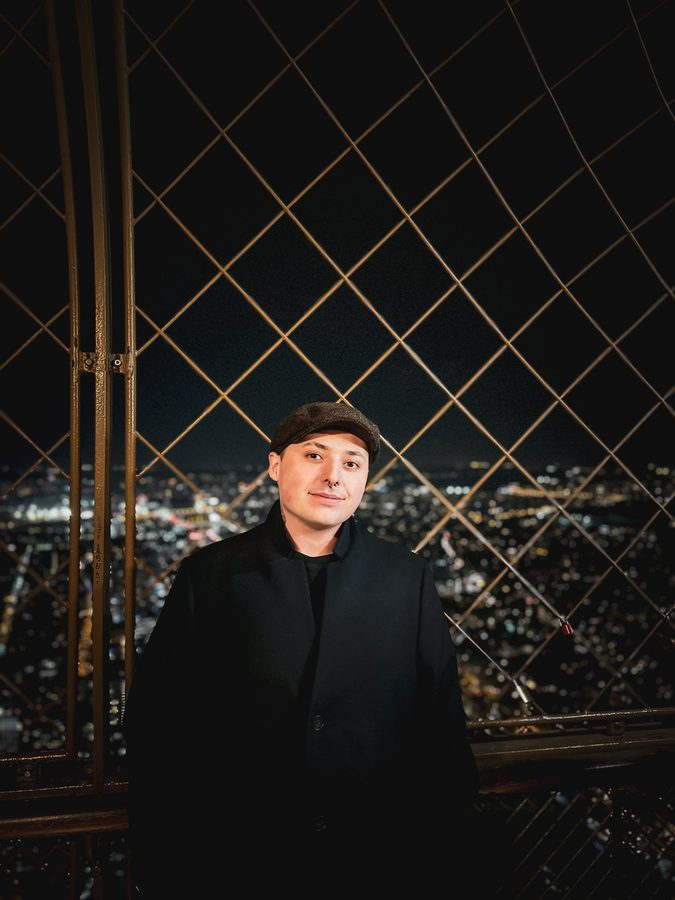
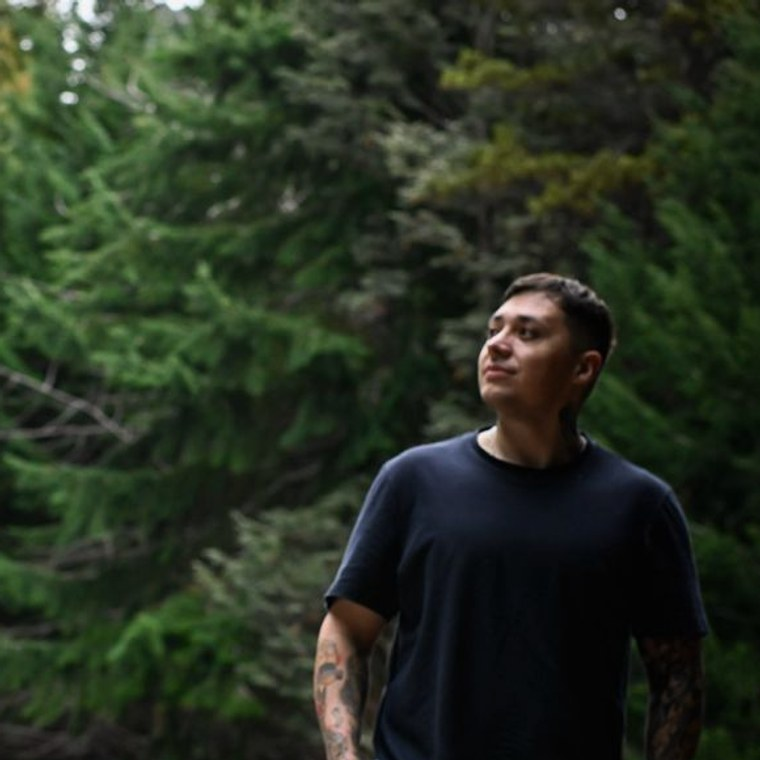
feat(about): new framed profile photo + self-hosted OG image
Replaced the About photo (public/perfil.jpg) with a current square-cropped portrait. Replaced the dead LinkedIn og:image/twitter:image URL with a self-hosted branded card (public/og.png, 1200x630). Removed unused public/perfil2.jpg and 'perfil copy.jpg'.

diff --git a/src/lib/content/portfolio.ts b/src/lib/content/portfolio.ts
@@ -23,8 +23,7 @@ export const seoData = {
   description:
     'Gaston Genaud is a SDET who specializes in building and designing exceptional automation projects.',
   author: author.name,
-  image:
-    'https://media.licdn.com/dms/image/C4D03AQFDpEm9W82qrg/profile-displayphoto-shrink_800_800/0/1631735599927?e=1707955200&v=beta&t=u9cROMqiOSH9PrhEKgpaZk8edrEsIiePgkcRUz92EU8',
+  image: 'https://gastongenaud.com/og.png',
   url: 'https://gastongenaud.com/',
   keywords: [
     'Gaston',